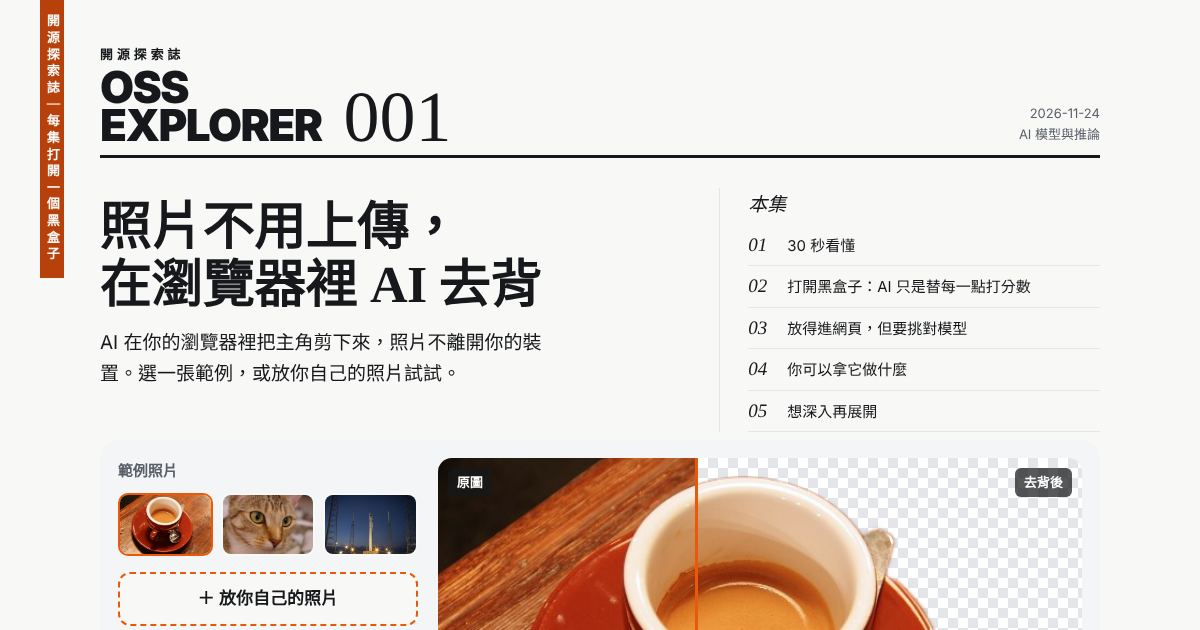
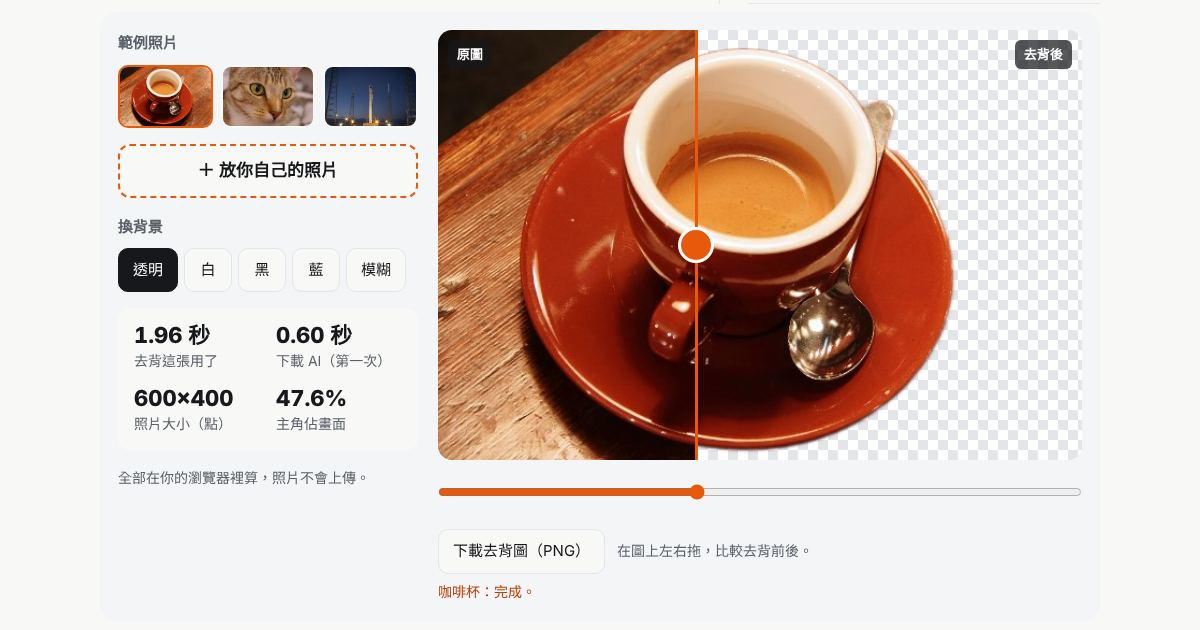
首頁改成雜誌封面版（共用 series.css）；每集刊頭加回首頁連結；縮圖改拍 Demo
- 首頁：刊頭＋最新一期期數、封面＝最新一集、目錄、章節頭 01–05、過刊列表、folio
- 每集與模板：OSS EXPLORER 連回首頁，刊頭加「回首頁」
- qa：og.jpg 改拍 #demo；第 1、2 集 meta 的一句話與 Demo 說明改成白話

Claude-Session: https://claude.ai/code/session_015RxxCeQkojGTc1MStvDqzw

diff --git a/index.html b/index.html
@@ -11,107 +11,119 @@
 <link rel="alternate" type="application/atom+xml" title="開源探索誌" href="feed.xml">
 <title>開源探索誌</title>
 <link rel="preconnect" href="https://fonts.googleapis.com">
-<link href="https://fonts.googleapis.com/css2?family=Archivo:wdth,wght@112,800&family=Archivo:wght@400;600&family=Noto+Sans+TC:wght@400;600;800&family=Noto+Serif+TC:wght@700;800&display=swap" rel="stylesheet">
+<!-- 系列字型（跟各集相同）：Noto Serif TC（標題）＋Noto Sans TC（內文）＋Bricolage Grotesque（大數字）＋Archivo（刊頭）＋Bodoni Moda（期數、章節編號） -->
+<link href="https://fonts.googleapis.com/css2?family=Bricolage+Grotesque:opsz,wght@12..96,500;12..96,800&family=Noto+Sans+TC:wght@400;600;700;800&family=Noto+Serif+TC:wght@700;800&family=Archivo:wght@900&family=Bodoni+Moda:ital,wght@0,400;1,400;1,500&display=swap" rel="stylesheet">
+<!-- 系列骨架：跟各集共用刊頭、章節頭、目錄、頁尾、紙色與字型 -->
+<link rel="stylesheet" href="assets/series.css">
 <style>
-/* VOICE: a station timetable — precise, calm, every line earns its place
-   IDEA: a departures board where each episode is a departure and each domain a platform
-   PICTURE: the coverage board — 14 domains, one red block per episode, gaps visible at a glance
-   COLOUR and TYPE: white, black, signal red #e4002b, one grey; Archivo wide numerals + Noto Sans TC
-   LAYOUT: strict left edge, huge episode numerals hanging in a wide left column, thick top rules */
-:root{color-scheme:light dark;--bg:light-dark(#fff,#0e0e0e);--ink:light-dark(#111,#f2f2f2);--grey:light-dark(#6b6b6b,#9a9a9a);--line:light-dark(#111,#f2f2f2);--soft:light-dark(#ececec,#232323);--red:#e4002b;--redink:light-dark(#c80026,#ff4d6a)}
-:root[data-theme=light]{color-scheme:light}:root[data-theme=dark]{color-scheme:dark}
-*{box-sizing:border-box;min-width:0}
-body{margin:0;background:var(--bg);color:var(--ink);font:16px/1.6 "Noto Sans TC","Archivo",system-ui,sans-serif;overflow-x:clip}
-.band{padding:clamp(24px,4vw,56px) max(5vw,16px);max-width:1240px;margin:0 auto}
-.num{font-family:"Archivo",sans-serif;font-stretch:112%;font-weight:800;font-variant-numeric:tabular-nums}
-h1{font-family:"Noto Serif TC","Noto Sans TC",serif;font-size:clamp(36px,6vw,52px);line-height:1.05;margin:0;font-weight:800;text-wrap:balance}
-h2{font-family:"Noto Serif TC","Noto Sans TC",serif;font-size:clamp(24px,3vw,32px);line-height:1.1;margin:0 0 6px;font-weight:800}
-.rule{border-top:6px solid var(--line);padding-top:14px}
-.sub{color:var(--grey);margin:8px 0 0;max-width:68ch}
-.stats{display:flex;flex-wrap:wrap;gap:12px 40px;margin-top:26px}
-.stat b{display:block;font-size:clamp(34px,5vw,48px);line-height:1}
-.stat span{color:var(--grey);font-size:14px}
-.next{margin-top:18px;font-size:15px}.next strong{color:var(--redink)}
-nav.scroll{display:flex;gap:6px;overflow-x:auto;padding:12px max(5vw,16px);max-width:1240px;margin:0 auto;border-bottom:1px solid var(--soft)}
-nav a{flex:none;color:var(--ink);text-decoration:none;padding:10px 14px;border:1px solid var(--soft);font-size:15px}
-nav a:hover,nav a:focus-visible{border-color:var(--line)}
-@media(min-width:900px){nav.scroll{position:sticky;top:0;background:var(--bg);z-index:5}}
-.board{display:grid;grid-template-columns:repeat(2,minmax(0,1fr));gap:0 48px;margin-top:18px}
-.row{display:grid;grid-template-columns:minmax(0,11em) minmax(0,1fr) 2.4em;align-items:center;gap:12px;padding:9px 0;border-bottom:1px solid var(--soft)}
-.row .dn{font-size:15px}.row .ct{text-align:right;font-size:20px}
+/* 首頁＝雜誌封面＋過刊目錄。只放首頁獨有的元件；字型、紙色、刊頭、章節頭都來自 series.css */
+:root{--accent:light-dark(#d9480f,#ff8a4c);--accent-ink:light-dark(#b23c0c,#ff9d66);--accent-soft:light-dark(#fff1e8,#3a2a22)}
+.home-hero{padding-top:clamp(24px,4vw,48px)}
+.home-lead h1 a{color:inherit;text-decoration:none}
+.home-lead h1 a:hover{text-decoration:underline;text-decoration-color:var(--accent);text-decoration-thickness:2px}
+.home-lead .label{margin:0 0 6px;font-family:var(--it);font-style:italic;font-size:17px;color:var(--mute)}
+.home-thumb{display:block;margin-top:clamp(14px,2vw,20px);aspect-ratio:1200/630;overflow:hidden;border-radius:6px;max-width:640px}
+.home-thumb img{width:100%;height:100%;object-fit:cover;display:block}
+.home-stats{display:grid;grid-template-columns:repeat(4,minmax(0,1fr));margin:clamp(20px,3vw,32px) 0 0;border-top:1px solid var(--ink)}
+.home-stats div{padding-top:10px;padding-bottom:4px;padding-right:12px}
+.home-stats b{display:block;font-family:var(--disp);font-weight:800;font-size:clamp(30px,4vw,44px);line-height:1;font-variant-numeric:tabular-nums}
+.home-stats span{font-size:14px;color:var(--mute)}
+@media(max-width:600px){.home-stats{grid-template-columns:repeat(2,minmax(0,1fr));row-gap:10px}}
+.home-note{max-width:none;font-size:15px;margin:14px 0 0}
+.home-note strong{color:var(--accent-ink)}
+.home-run{max-width:none;font-size:14px;color:var(--mute);margin:6px 0 0}.home-run.fail{color:var(--risk);font-weight:600}
+.home-status{font-size:14px;color:var(--mute);margin:6px 0 0;min-height:1.4em}
+.home-jump{display:none}
+@media(max-width:860px){.home-jump{display:flex;gap:6px;overflow-x:auto;padding-top:4px;padding-bottom:4px}.home-jump a{flex:none;color:var(--ink);text-decoration:none;padding:10px 12px;border:1px solid var(--line);border-radius:8px;font-size:15px}}
+/* 01 領域地圖 */
+.board{display:grid;grid-template-columns:repeat(2,minmax(0,1fr));column-gap:48px}
+.row{display:grid;grid-template-columns:minmax(0,11em) minmax(0,1fr) 2em;align-items:center;gap:12px;padding-top:9px;padding-bottom:9px;border-bottom:1px solid var(--line)}
+.row .dn{font-size:15px}.row .ct{text-align:right;font-family:var(--it);font-size:20px}
+.row.zero .dn,.row.zero .ct{color:var(--mute)}
 .blocks{display:flex;flex-wrap:wrap;gap:4px}
-.blk{width:18px;height:18px;background:var(--red);display:inline-block;text-decoration:none}
-.blk.empty{background:none;border:1px dashed var(--grey);opacity:.6}
-.row.zero .dn{color:var(--grey)}
+.blk{width:18px;height:18px;background:var(--accent);display:inline-block;border-radius:2px}
+.blk.empty{background:none;border:1px dashed var(--mute);opacity:.6}
 @media(max-width:760px){.board{grid-template-columns:minmax(0,1fr)}}
-.tools{display:flex;flex-wrap:wrap;gap:10px;margin:18px 0 4px}
-select,input[type=search],textarea,input[type=text]{font:inherit;font-size:16px;color:var(--ink);background:var(--bg);border:1px solid var(--grey);padding:10px 12px;min-height:44px;border-radius:0}
-select:focus-visible,input:focus-visible,textarea:focus-visible,button:focus-visible{outline:3px solid var(--red);outline-offset:1px}
-button{font:inherit;font-size:15px;min-height:44px;padding:8px 14px;border:1px solid var(--line);background:var(--bg);color:var(--ink);cursor:pointer;border-radius:0}
-button.on{background:var(--ink);color:var(--bg)}
-button.primary{background:var(--red);border-color:var(--red);color:#fff;font-weight:600}
-.ep{display:grid;grid-template-columns:clamp(84px,14vw,170px) minmax(0,1fr);gap:0 24px;border-top:2px solid var(--line);padding:22px 0 26px}
-.ep .no{font-size:clamp(44px,8vw,92px);line-height:.9;color:var(--ink)}
-.ep .thumb{display:block;margin:4px 0 12px;max-width:520px;aspect-ratio:1200/630;overflow:hidden;border:1px solid var(--soft)}
-.ep .thumb img{width:100%;height:100%;object-fit:cover;display:block}
-.status:empty{display:none}
-.runline{font-size:14px;color:var(--grey);margin-top:10px}.runline.fail{color:var(--redink);font-weight:600}
-.subs{font-size:14px;margin-top:6px}.subs a{color:var(--ink)}
-.ep .date{color:var(--grey);font-size:14px;margin-top:8px}
-.ep h3{font-family:"Noto Serif TC","Noto Sans TC",serif;font-size:clamp(21px,2.6vw,28px);line-height:1.2;margin:0 0 6px}
-.ep p{margin:4px 0 10px;max-width:70ch}
-.tags{display:flex;flex-wrap:wrap;gap:6px;margin:8px 0}
-.tag{font-size:13px;border:1px solid var(--soft);padding:2px 8px;white-space:nowrap}
-.tag.hot{border-color:var(--red);color:var(--redink)}
-.res{font-size:14px;color:var(--grey);margin:6px 0}
-.res a{color:var(--ink)}
-.go{display:inline-block;margin:6px 0 12px;font-weight:600;color:var(--redink);text-decoration:none;border-bottom:2px solid var(--red);padding:6px 0}
-.fb{display:flex;flex-wrap:wrap;align-items:center;gap:6px;margin-top:6px}
-.fb .lbl{font-size:14px;color:var(--grey);margin-right:4px}
-.stars button{min-width:44px;padding:8px 0}
-.note{display:flex;gap:8px;margin-top:8px;flex-wrap:wrap}.note textarea{flex:1 1 280px;min-height:44px;resize:vertical}
-.saved{font-size:13px;color:var(--grey);min-height:1.2em}
-.hl{margin:4px 0 8px;padding-left:1.2em}.hl li{margin:2px 0}
-.ideas{display:grid;gap:0}
-.idea{display:grid;grid-template-columns:minmax(0,1fr) auto;gap:6px 16px;border-bottom:1px solid var(--soft);padding:14px 0}
-.idea h4{margin:0;font-size:17px}.idea p{margin:2px 0;color:var(--ink);max-width:72ch}
-.idea .meta{font-size:13px;color:var(--grey)}
-.wish{border-bottom:1px solid var(--soft);padding:12px 0;display:grid;grid-template-columns:minmax(0,1fr) auto;gap:4px 12px}
-.st{font-size:13px;white-space:nowrap}.st.open{color:var(--redink)}
-.empty-state{border:1px dashed var(--grey);padding:22px;color:var(--grey);margin-top:14px}
-.status{font-size:14px;color:var(--grey);margin-top:10px;min-height:1.4em}
-.how ol{padding-left:1.4em;max-width:72ch}.how li{margin:6px 0}
-footer{color:var(--grey);font-size:14px}
-@media(max-width:600px){.ep{grid-template-columns:minmax(0,1fr)}.ep .no{font-size:56px}.row{grid-template-columns:minmax(0,8.5em) minmax(0,1fr) 2em}}
-@media(prefers-reduced-motion:no-preference){.blk{transition:transform .2s}.blk:hover{transform:scale(1.25)}}
+@media(max-width:600px){.row{grid-template-columns:minmax(0,8.5em) minmax(0,1fr) 2em}}
+/* 02 各集（過刊） */
+.tools{display:flex;flex-wrap:wrap;gap:10px;margin-bottom:8px}
+.tools input,.tools select{font-size:16px;color:var(--ink);background:var(--bg);border:1px solid var(--mute);border-radius:8px;padding:10px 12px;min-height:44px}
+.issue{display:grid;grid-template-columns:clamp(72px,11vw,128px) minmax(0,1fr) minmax(0,300px);column-gap:clamp(16px,3vw,32px);padding-top:22px;padding-bottom:24px;border-top:1px solid var(--line)}
+.issue .no{font-family:var(--it);font-size:clamp(40px,6vw,64px);line-height:.85;margin:0}
+.issue .date{font-size:13px;color:var(--mute);margin:8px 0 0}
+.issue h3{font-size:clamp(20px,2.4vw,26px);margin-bottom:6px}
+.issue h3 a{color:inherit;text-decoration:none}.issue h3 a:hover{text-decoration:underline;text-decoration-color:var(--accent)}
+.issue p{margin:4px 0 8px}
+.issue .dom{font-family:var(--it);font-style:italic;color:var(--mute);font-size:15px;margin:0 0 4px}
+.issue .hl{margin:6px 0 8px;padding-left:1.2em;font-size:15px}.issue .hl li{margin:2px 0}
+.issue .res{font-size:14px;color:var(--mute);margin:4px 0}
+.issue .res a,.issue .links a{color:var(--ink)}
+.issue .links{display:flex;flex-wrap:wrap;gap:4px 18px;font-weight:600;margin-top:8px}
+.issue .links a{text-decoration-color:var(--accent);text-decoration-thickness:2px;text-underline-offset:5px;padding-top:6px;padding-bottom:6px}
+.issue .pic{display:block;aspect-ratio:1200/630;overflow:hidden;border-radius:6px;align-self:start}
+.issue .pic img{width:100%;height:100%;object-fit:cover;display:block}
+@media(max-width:860px){.issue{grid-template-columns:clamp(64px,14vw,96px) minmax(0,1fr)}.issue .pic{grid-column:2;grid-row:1;margin-bottom:12px}}
+@media(max-width:600px){.issue{grid-template-columns:minmax(0,1fr)}.issue .pic{grid-column:1;grid-row:auto}.issue .no{font-size:44px}}
+/* 03 點子庫 */
+.idea-row{display:grid;grid-template-columns:minmax(0,1fr) auto;gap:6px 16px;border-bottom:1px solid var(--line);padding-top:14px;padding-bottom:14px}
+.idea-row h3{font-size:18px;margin:0}.idea-row p{margin:2px 0}
+.idea-row .meta{font-size:13px;color:var(--mute)}
+.idea-row .meta i{font-family:var(--it);font-size:15px;color:var(--ink);margin-right:6px}
+.starred{font-size:13px;color:var(--accent-ink);border:1px solid var(--accent);border-radius:999px;padding:2px 10px;white-space:nowrap}
+.btn.on{background:var(--ink);color:var(--bg);border-color:var(--ink)}
+/* 04 許願 */
+.wish{border-bottom:1px solid var(--line);padding-top:12px;padding-bottom:12px;display:grid;grid-template-columns:minmax(0,1fr) auto;gap:4px 12px}
+.wish .re{color:var(--mute);font-size:14px}
+.st{font-size:13px;white-space:nowrap}.st.open{color:var(--accent-ink)}
+.edit{display:inline-block;font-weight:600;color:var(--accent-ink);text-decoration-thickness:2px;padding-top:6px;padding-bottom:6px}
+.empty-state{border:1px dashed var(--mute);border-radius:8px;padding:20px;color:var(--mute);margin-top:12px}
+/* 05 怎麼運作 */
+.how-list{padding-left:1.4em;max-width:72ch}.how-list li{margin:6px 0}
 </style>
 </head>
 <body>
-<header class="band">
-  <div class="rule"><h1>開源探索誌</h1></div>
-  <p class="sub">每週一到週五早上 7:23（台北）自動出刊。每集由 Claude 自己選題、讀原始碼、在雲端實際跑起來、做一個能玩的 Demo，再寫成一頁介紹。所有內容都存在 GitHub，任何裝置打開這個網址都能看。</p>
-  <div class="stats">
-    <div class="stat"><b class="num" id="sEp">–</b><span>已出刊集數</span></div>
-    <div class="stat"><b class="num" id="sDom">–</b><span>領域覆蓋（共 14）</span></div>
-    <div class="stat"><b class="num" id="sIdea">–</b><span>累積點子</span></div>
-    <div class="stat"><b class="num" id="sStar">–</b><span>你收藏的點子</span></div>
+<header class="wrap mast-wrap home-hero" data-section="header">
+  <p class="spine">開源探索誌｜每集打開一個黑盒子</p>
+  <div class="mast"><p class="logo"><small>開源探索誌</small>OSS <br>EXPLORER</p><p class="no" id="mNo">–</p><p class="meta">每週一到週五　<br>早上 7:23（台北）出刊</p></div>
+  <div class="cover">
+    <div class="home-lead">
+      <p class="label">Latest Issue</p>
+      <h1 id="leadTitle">開源探索誌</h1>
+      <p class="dek" id="leadDek">每集由 Claude 自己選題、讀原始碼、在雲端實際跑起來、做一個能玩的 Demo，再寫成一頁給外行人也看得懂的介紹。</p>
+      <a class="home-thumb" id="leadPic" href="#episodes" hidden tabindex="-1" aria-hidden="true"></a>
+    </div>
+    <nav class="toc" aria-label="首頁目錄"><p class="t">目錄</p><ol>
+      <li><a href="#map"><i>01</i><span>領域地圖</span></a></li>
+      <li><a href="#episodes"><i>02</i><span>各集</span></a></li>
+      <li><a href="#ideas"><i>03</i><span>點子庫</span></a></li>
+      <li><a href="#wishes"><i>04</i><span>許願與回饋</span></a></li>
+      <li><a href="#how"><i>05</i><span>怎麼運作</span></a></li>
+    </ol></nav>
   </div>
-  <p class="next" id="next"></p>
-  <p class="runline" id="runline"></p>
-  <p class="subs">新一集出刊時會推播到你的手機；也可以用 RSS 閱讀器訂閱 <a href="feed.xml">feed.xml</a>。</p>
-  <p class="status" id="status">載入中…</p>
+  <div class="home-stats">
+    <div><b id="sEp">–</b><span>已出刊集數</span></div>
+    <div><b id="sDom">–</b><span>領域覆蓋（共 14）</span></div>
+    <div><b id="sIdea">–</b><span>累積點子</span></div>
+    <div><b id="sStar">–</b><span>你收藏的點子</span></div>
+  </div>
+  <p class="home-note" id="next"></p>
+  <p class="home-run" id="runline"></p>
+  <p class="home-run">新一集出刊時會推播到你的手機；也可以用 RSS 閱讀器訂閱 <a href="feed.xml">feed.xml</a>。</p>
+  <p class="home-status" id="status">載入中…</p>
+  <nav class="home-jump" aria-label="區段"><a href="#map">領域地圖</a><a href="#episodes">各集</a><a href="#ideas">點子庫</a><a href="#wishes">許願池</a><a href="#how">怎麼運作</a></nav>
 </header>
-<nav class="scroll" aria-label="區段">
-  <a href="#map">領域地圖</a><a href="#episodes">各集</a><a href="#ideas">點子庫</a><a href="#wishes">許願池</a><a href="#how">怎麼運作</a>
-</nav>
 
-<section class="band" id="map">
-  <div class="rule"><h2>領域地圖</h2><p class="sub">每個紅格是一集。虛線格表示還沒探索過，排程會優先往那裡走。點紅格可直接跳到那一集。</p></div>
+<section class="wrap" id="map">
+  <div class="sec" aria-hidden="true"><i>01</i><em>Coverage Map</em></div>
+  <h2>領域地圖</h2>
+  <p>每個色塊是一集，虛線格是還沒探索過的領域，排程會優先往那裡走。點色塊可以直接跳到那一集。</p>
   <div class="board" id="board"></div>
 </section>
 
-<section class="band" id="episodes">
-  <div class="rule"><h2>各集</h2><p class="sub">最新的在最上面。每集都附上 Demo 與可直接執行的實驗程式碼。</p></div>
+<section class="wrap" id="episodes">
+  <div class="sec" aria-hidden="true"><i>02</i><em>Back Issues</em></div>
+  <h2>各集</h2>
+  <p>最新的在最上面。每集都附可以玩的 Demo 和可以直接執行的實驗程式碼。</p>
   <div class="tools">
     <input type="search" id="q" placeholder="搜尋標題、資源、標籤" aria-label="搜尋">
     <select id="fDom" aria-label="領域"><option value="">全部領域</option></select>
@@ -120,30 +132,38 @@ footer{color:var(--grey);font-size:14px}
   <div id="epList"></div>
 </section>
 
-<section class="band" id="ideas">
-  <div class="rule"><h2>點子庫</h2><p class="sub">每集都會留下 3–5 個「可以拿它做什麼」的點子。想收藏哪個點子，寫進下方「許願與回饋」就好。</p></div>
-  <div class="tools"><button id="onlyStar" aria-pressed="false">只看收藏</button></div>
-  <div class="ideas" id="ideaList"></div>
+<section class="wrap" id="ideas">
+  <div class="sec" aria-hidden="true"><i>03</i><em>Ideas</em></div>
+  <h2>點子庫</h2>
+  <p>每集都會留下 3–5 個「可以拿它做什麼」的點子。想收藏哪個，寫進下面的許願與回饋就好。</p>
+  <div class="tools"><button type="button" class="btn" id="onlyStar" aria-pressed="false">只看收藏</button></div>
+  <div id="ideaList"></div>
 </section>
 
-<section class="band" id="wishes">
-  <div class="rule"><h2>許願與回饋</h2><p class="sub">想看什麼主題、對哪一集打幾分、想收藏哪個點子，都寫在 repo 裡的 <b>feedback.md</b>。在手機或電腦打開下面的連結，點鉛筆圖示編輯、按 Commit 就完成。每次出刊前都會先讀這個檔案。</p></div>
-  <p><a class="go" id="fbEdit" href="#">編輯 feedback.md →</a></p>
+<section class="wrap" id="wishes">
+  <div class="sec" aria-hidden="true"><i>04</i><em>Letters</em></div>
+  <h2>許願與回饋</h2>
+  <p>想看什麼主題、對哪一集打幾分、想收藏哪個點子，都寫在 repo 裡的 <b>feedback.md</b>。在手機或電腦打開下面的連結，點鉛筆圖示編輯、按 Commit 就完成。每次出刊前都會先讀這個檔案。</p>
+  <p><a class="edit" id="fbEdit" href="#">編輯 feedback.md</a></p>
   <div id="wishList"></div>
 </section>
 
-<section class="band how" id="how">
-  <div class="rule"><h2>怎麼運作</h2></div>
-  <ol>
+<section class="wrap" id="how">
+  <div class="sec" aria-hidden="true"><i>05</i><em>How it Works</em></div>
+  <h2>怎麼運作</h2>
+  <ol class="how-list">
     <li><b>讀狀態</b>：每次出刊先讀 repo 裡的 data/（過去各集、點子、輪替狀態）與 feedback.md（你的許願、評分、收藏）。</li>
     <li><b>選題</b>：許願優先；否則在 14 個領域中挑最久沒去、你評價高的方向；「巨星 → 隱藏寶石 → 新星＋組合技」三集一輪；主鏡頭在「厲害／好玩／商業潛力」間輪替。</li>
     <li><b>發掘與研究</b>：從 GitHub Trending、Show HN、awesome 清單、開放資料目錄等至少三個來源找候選，clone 原始碼拿真實的活躍度與授權資訊。</li>
     <li><b>實際跑起來</b>：在雲端工作區安裝執行，結果全部是真的輸出；能在瀏覽器跑的就做成可互動 Demo。</li>
-    <li><b>發布</b>：寫成一頁介紹（原理圖、Demo、上手程式碼、點子、跨集組合、限制、來源），連同實驗程式碼推到 GitHub，網站自動更新，並推播通知你。</li>
+    <li><b>審查與發布</b>：內容審查員查事實、設計審查員用外行人的眼睛看頁面，通過後推到 GitHub，網站自動更新；再到線上版親手玩一次，並推播通知你。</li>
   </ol>
 </section>
-<footer class="band">資料來自本 repo 的 data/episodes.json 與 data/ideas.json。數字以各集頁面標示的日期為準。</footer>
 
+<footer class="wrap">
+  <p class="folio"><span><i id="fNo">–</i>開源探索誌</span><span>每集打開一個黑盒子</span></p>
+  <p>資料來自本 repo 的 data/episodes.json 與 data/ideas.json。數字以各集頁面標示的日期為準。</p>
+</footer>
 <script>
 {
 const DOMAINS=["AI 模型與推論","AI 應用與 Agent 框架","開發者工具","資料庫與後端基礎設施","自架服務 self-hosted","開放資料集","前端・設計・UI・字體・圖示","多媒體","地圖與地理空間","科學・數學・生醫・氣候","隱私・安全・網路","硬體・IoT・嵌入式・機器人","生產力・知識管理・桌面 App","好玩・怪奇・創意程式・藝術"];
@@ -162,12 +182,16 @@ function renderStats(){
   $("sIdea").textContent=S.ideas.length;$("sStar").textContent=S.ideas.filter(i=>i.starred).length;
   const h=S.state&&S.state.nextHint;
   $("next").innerHTML=h?`<strong>下一集預告</strong>　${esc(h)}`:"";
+  const L=[...S.eps].sort((a,b)=>b.no-a.no)[0];
+  if(L){const u=L.path?L.path:safeUrl(L.url);$("mNo").textContent=pad(L.no);$("fNo").textContent=pad(L.no);
+    $("leadTitle").innerHTML=u?`<a href="${esc(u)}">${esc(L.title)}</a>`:esc(L.title);$("leadDek").textContent=L.oneliner||"";
+    if(L.thumb){$("leadPic").href=u||"#episodes";$("leadPic").innerHTML=`<img src="${esc(L.thumb)}" alt="" width="1200" height="630">`;$("leadPic").hidden=false}}
 }
 function renderBoard(){
   $("board").innerHTML=DOMAINS.map(d=>{
     const list=S.eps.filter(e=>dmatch(e.domain,d)).sort((a,b)=>a.no-b.no);
     const blocks=list.length?list.map(e=>`<a class="blk" href="#ep-${pad(e.no)}" title="#${pad(e.no)} ${esc(e.title)}" aria-label="第 ${pad(e.no)} 集"></a>`).join(""):`<span class="blk empty" aria-hidden="true"></span>`;
-    return `<div class="row${list.length?"":" zero"}"><span class="dn">${esc(d)}</span><span class="blocks">${blocks}</span><span class="ct num">${list.length}</span></div>`;
+    return `<div class="row${list.length?"":" zero"}"><span class="dn">${esc(d)}</span><span class="blocks">${blocks}</span><span class="ct">${list.length}</span></div>`;
   }).join("");
 }
 function epVisible(e){
@@ -183,32 +207,30 @@ function renderEps(){
   if(!list.length){$("epList").innerHTML=`<div class="empty-state">沒有符合篩選條件的集數。</div>`;return}
   $("epList").innerHTML=list.map(e=>{
     const u=e.path?e.path:safeUrl(e.url);
-    const res=(e.resources||[]).map(x=>{const ru=safeUrl(x.url);return (ru?`<a href="${esc(ru)}">${esc(x.name)}</a>`:esc(x.name))+(x.license?` · ${esc(x.license)}`:"")+(x.stars&&/\d/.test(x.stars)?` · ★${esc(x.stars)}`:"")}).join("　／　");
-    const tags=[e.domain,e.format,e.tier,e.lens&&("主鏡頭："+e.lens)].filter(Boolean).map((t,i)=>`<span class="tag${i===3?" hot":""}">${esc(t)}</span>`).join("")+(e.tags||[]).map(t=>`<span class="tag">${esc(t)}</span>`).join("");
+    const res=(e.resources||[]).map(x=>{const ru=safeUrl(x.url);return (ru?`<a href="${esc(ru)}">${esc(x.name)}</a>`:esc(x.name))+(x.license?`（${esc(x.license)}`+(x.stars&&/\d/.test(x.stars)?`，${esc(x.stars)} 顆星`:"")+"）":"")}).join("、");
     const hl=(e.highlights||[]).length?`<ul class="hl">${e.highlights.map(h=>`<li>${esc(h)}</li>`).join("")}</ul>`:"";
-    return `<article class="ep" id="ep-${pad(e.no)}">
-      <div><div class="no num">${pad(e.no)}</div><div class="date num">${esc(e.date)}</div></div>
-      <div>${e.thumb?`<a class="thumb" href="${esc(u)}" aria-hidden="true" tabindex="-1"><img src="${esc(e.thumb)}" alt="" loading="lazy" width="1200" height="630"></a>`:""}<h3>${esc(e.title)}</h3><p>${esc(e.oneliner)}</p>
-      <div class="tags">${tags}</div>${hl}
+    return `<article class="issue" id="ep-${pad(e.no)}">
+      <div><p class="no">${pad(e.no)}</p><p class="date">${esc(e.date)}</p></div>
+      <div><p class="dom">${esc(e.domain)}</p><h3>${u?`<a href="${esc(u)}">${esc(e.title)}</a>`:esc(e.title)}</h3><p>${esc(e.oneliner)}</p>${hl}
       ${e.demo?`<p class="res"><b>Demo：</b>${esc(e.demo)}</p>`:""}
       <p class="res">${res}</p>
-      ${u?`<a class="go" href="${esc(u)}">閱讀本集 →</a>`:""}
-      ${e.lab?`<a class="go" href="${esc(REPO)}/tree/main/${esc(e.lab)}" style="margin-left:18px">實驗程式碼 →</a>`:""}
-      </div></article>`;
+      <p class="links">${u?`<a href="${esc(u)}">閱讀本集</a>`:""}${e.lab?`<a href="${esc(REPO)}/tree/main/${esc(e.lab)}">實驗程式碼</a>`:""}</p></div>
+      ${e.thumb&&u?`<a class="pic" href="${esc(u)}" aria-hidden="true" tabindex="-1"><img src="${esc(e.thumb)}" alt="" loading="lazy" width="1200" height="630"></a>`:"<span></span>"}
+      </article>`;
   }).join("");
 }
 function renderIdeas(){
   const list=S.ideas.filter(i=>!S.onlyStar||i.starred).sort((a,b)=>(b.no||0)-(a.no||0)||String(a.id).localeCompare(String(b.id)));
   if(!S.ideas.length){$("ideaList").innerHTML=`<div class="empty-state">點子會隨每集出刊累積在這裡。</div>`;return}
   if(!list.length){$("ideaList").innerHTML=`<div class="empty-state">還沒有收藏的點子。</div>`;return}
-  $("ideaList").innerHTML=list.map(i=>`<div class="idea"><div><h4>${esc(i.title)}</h4><p>${esc(i.pitch)}</p>
-    <div class="meta">#${pad(i.no||0)}　·　工作量：${esc(i.effort||"—")}　·　價值：${esc(i.value||"—")}</div></div>
-    <div>${i.starred?'<span class="tag hot">已收藏</span>':""}</div></div>`).join("");
+  $("ideaList").innerHTML=list.map(i=>`<div class="idea-row"><div><h3>${esc(i.title)}</h3><p>${esc(i.pitch)}</p>
+    <p class="meta"><i>${pad(i.no||0)}</i>工作量：${esc(i.effort||"—")}；價值：${esc(i.value||"—")}</p></div>
+    <div>${i.starred?'<span class="starred">已收藏</span>':""}</div></div>`).join("");
 }
 function renderWishes(){
   $("fbEdit").href=REPO+"/edit/main/feedback.md";
   const list=(S.state&&S.state.wishes)||[];const lbl={open:"排隊中",done:"已完成",blocked:"做不到"};
-  $("wishList").innerHTML=list.length?list.map(w=>`<div class="wish"><div>${esc(w.text)}${w.reply?`<div style="color:var(--grey);font-size:14px">↳ ${esc(w.reply)}${w.doneIn?`（${esc(w.doneIn)}）`:""}</div>`:""}</div><span class="st ${esc(w.status)}">${esc(lbl[w.status]||w.status)}</span></div>`).join(""):`<div class="empty-state">目前沒有排隊中的許願。</div>`;
+  $("wishList").innerHTML=list.length?list.map(w=>`<div class="wish"><div>${esc(w.text)}${w.reply?`<div class="re">回覆：${esc(w.reply)}${w.doneIn?`（${esc(w.doneIn)}）`:""}</div>`:""}</div><span class="st ${esc(w.status)}">${esc(lbl[w.status]||w.status)}</span></div>`).join(""):`<div class="empty-state">目前沒有排隊中的許願。</div>`;
 }
 
 function renderAll(){renderStats();renderBoard();renderEps();renderIdeas();renderWishes()}

diff --git a/ep-002-handwired/index.html b/ep-002-handwired/index.html
@@ -98,7 +98,7 @@
 <body>
 <header class="wrap mast-wrap" data-section="header" style="padding-top:clamp(24px,4vw,48px)">
   <p class="spine">開源探索誌｜每集打開一個黑盒子</p>
-  <div class="mast"><p class="logo"><small>開源探索誌</small>OSS <br>EXPLORER</p><p class="no">002</p><p class="meta">2026-11-25　<br>好玩・怪奇・創意程式・藝術</p></div>
+  <div class="mast"><p class="logo"><a href="../" aria-label="開源探索誌首頁"><small>開源探索誌</small>OSS <br>EXPLORER</a></p><p class="no">002</p><p class="meta">2026-11-25　<br>好玩・怪奇・創意程式・藝術　<br><a class="home" href="../">回首頁</a></p></div>
   <div class="cover">
     <div><h1>不用訓練的<span style="white-space:nowrap">神經網路</span>：<span style="white-space:nowrap">FizzBuzz 手工接線</span>，<span style="white-space:nowrap">1000 題全對</span></h1>
     <p class="dek">照它的寫法把規則寫一遍，就變成 AI 的「腦」（神經網路），不用餵例子訓練。下面這個網路會玩 FizzBuzz：3 的倍數喊 Fizz、5 的倍數喊 Buzz，兩個都是就喊 FizzBuzz。</p></div>

diff --git a/ops/templates/episode/index.html b/ops/templates/episode/index.html
@@ -40,7 +40,7 @@
      讀者什麼都不懂：名詞第一次出現就用白話解釋 <dfn>名詞</dfn><span class="gloss">（白話）</span>；先講背景，再講新東西。 -->
 <header class="wrap mast-wrap" data-section="header" style="padding-top:clamp(24px,4vw,48px)">
   <p class="spine">開源探索誌｜每集打開一個黑盒子</p>
-  <div class="mast"><p class="logo"><small>開源探索誌</small>OSS <br>EXPLORER</p><p class="no">{{NNN}}</p><p class="meta">{{DATE}}　<br>{{DOMAIN}}</p></div>
+  <div class="mast"><p class="logo"><a href="../" aria-label="開源探索誌首頁"><small>開源探索誌</small>OSS <br>EXPLORER</a></p><p class="no">{{NNN}}</p><p class="meta">{{DATE}}　<br>{{DOMAIN}}　<br><a class="home" href="../">回首頁</a></p></div>
   <div class="cover">
     <div><h1>{{結論式標題}}</h1>
     <p class="dek">{{答案句：這東西替人做了什麼＋你可以在下面玩什麼}}</p></div>

diff --git a/ep-001-rembg/index.html b/ep-001-rembg/index.html
@@ -96,7 +96,7 @@
 <body>
 <header class="wrap mast-wrap" data-section="header" style="padding-top:clamp(24px,4vw,48px)">
   <p class="spine">開源探索誌｜每集打開一個黑盒子</p>
-  <div class="mast"><p class="logo"><small>開源探索誌</small>OSS <br>EXPLORER</p><p class="no">001</p><p class="meta">2026-11-24　<br>AI 模型與推論</p></div>
+  <div class="mast"><p class="logo"><a href="../" aria-label="開源探索誌首頁"><small>開源探索誌</small>OSS <br>EXPLORER</a></p><p class="no">001</p><p class="meta">2026-11-24　<br>AI 模型與推論　<br><a class="home" href="../">回首頁</a></p></div>
   <div class="cover">
     <div><h1>照片不用上傳，在瀏覽器裡 AI 去背</h1>
     <p class="dek">AI 在你的瀏覽器裡把主角剪下來，照片不離開你的裝置。選一張範例，或放你自己的照片試試。</p></div>

diff --git a/assets/series.css b/assets/series.css
@@ -161,3 +161,5 @@ header.mast-wrap{position:relative}
 .sec em{font-weight:400;font-size:15px;color:var(--mute);text-align:right}
 .folio{max-width:none;display:flex;flex-wrap:wrap;justify-content:space-between;gap:4px 16px;font-size:13px}
 .folio i{font-family:var(--it);margin-inline-end:8px}
+.mast .logo a{color:inherit;text-decoration:none}
+.mast .meta .home{color:var(--ink);font-weight:600;text-decoration-color:var(--accent);text-decoration-thickness:2px;text-underline-offset:4px;display:inline-block;padding-top:4px;padding-bottom:4px}

diff --git a/ops/bin/oss.py b/ops/bin/oss.py
@@ -465,8 +465,10 @@ def cmd_qa(a):
                 pg.screenshot(path=str(out / f"{name}.png"), full_page=False)
                 if name == "desktop":
                     pg.screenshot(path=str(out / "desktop-full.png"), full_page=True)
+                    # 縮圖＝Demo 本身（作品就是封面照）；沒有 #demo 才用頁面頂端
                     pg.set_viewport_size({"width": 1200, "height": 630}); pg.wait_for_timeout(300)
-                    pg.screenshot(path=str(out / "og.png")); pg.set_viewport_size(vp)
+                    pg.evaluate("(()=>{const d=document.getElementById('demo');if(d){d.scrollIntoView();window.scrollBy(0,(parseFloat(getComputedStyle(d).paddingTop)||0)-12)}})()"); pg.wait_for_timeout(300)
+                    pg.screenshot(path=str(out / "og.png")); pg.evaluate("window.scrollTo(0,0)"); pg.set_viewport_size(vp)
                 if axe.exists() and name == "desktop":
                     pg.add_script_tag(path=str(axe))
                     res = pg.evaluate("async()=>{const r=await axe.run(document,{runOnly:['wcag2a','wcag2aa']});return r.violations.map(v=>({id:v.id,impact:v.impact,n:v.nodes.length,help:v.help}))}")

diff --git a/ops/LESSONS.md b/ops/LESSONS.md
@@ -38,3 +38,4 @@
 - 2026-11-25：頁面上的指令範例一定要在乾淨環境真的跑過才能寫「實測」：rembg[cpu] 不含命令列依賴，要 rembg[cpu,cli]（ep-001 重做時審查員抓到）。倍數比較要用同一個單位的原始數字算（1,024,331,469 ÷ 4,574,861 bytes ≈ 224，不是 1024 MB ÷ 4.4 MB）。
 - 2026-11-25：推送後 GitHub Pages 偶爾不會開始部署（ep-001 重做時 3eddbbb 推了 10 分鐘都沒有 workflow run）。用 gh api repos/<repo>/actions/runs 查得到部署狀態；沒有就推一個空 commit 重新觸發，不要只看線上頁面是不是舊的就以為是快取。
 - 2026-11-25：2026-11-25 系列骨架改成雜誌版面（參考《大誌》）：刊頭＋期數、書背標語、目錄、章節頭 01–05、folio、紙色 #f8f8f6；字型加 Bodoni Moda（斜體數字與英文欄名）與 Archivo 900（刊頭）。impeccable 會把「字貼著底線」判成 cramped padding，章節頭的底線要留 padding-bottom:8px。
+- 2026-11-25：首頁也改用 assets/series.css（刊頭顯示最新一期期數、封面是最新一集、目錄、章節頭 01–05、過刊列表）；每集刊頭的 OSS EXPLORER 和「回首頁」都連回 ../。縮圖 og.jpg 改拍 Demo 本身（作品就是封面照），不再是頁面頂端，避免首頁出現「頁面裡的頁面」。meta.json 的 oneliner、demo 會直接顯示在首頁，也要用白話寫。
